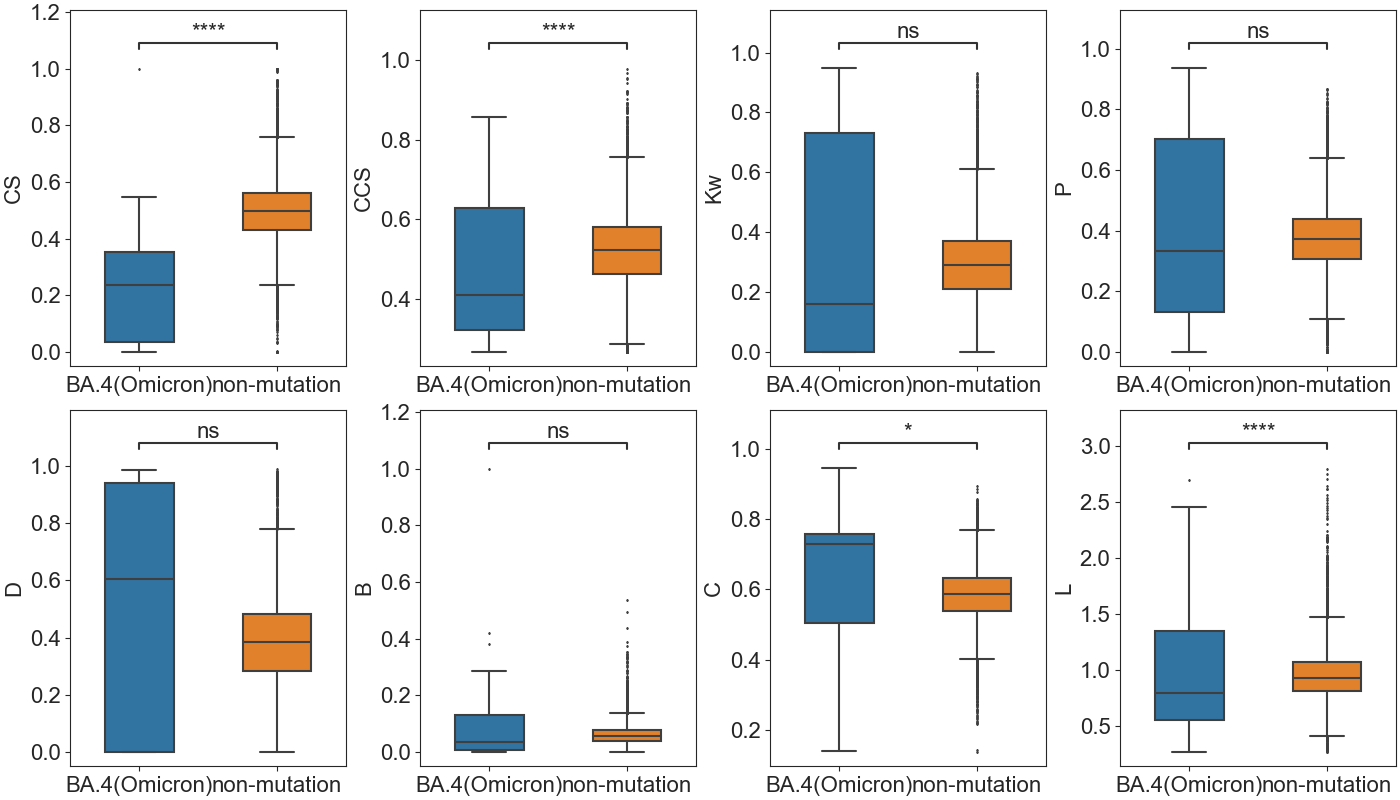
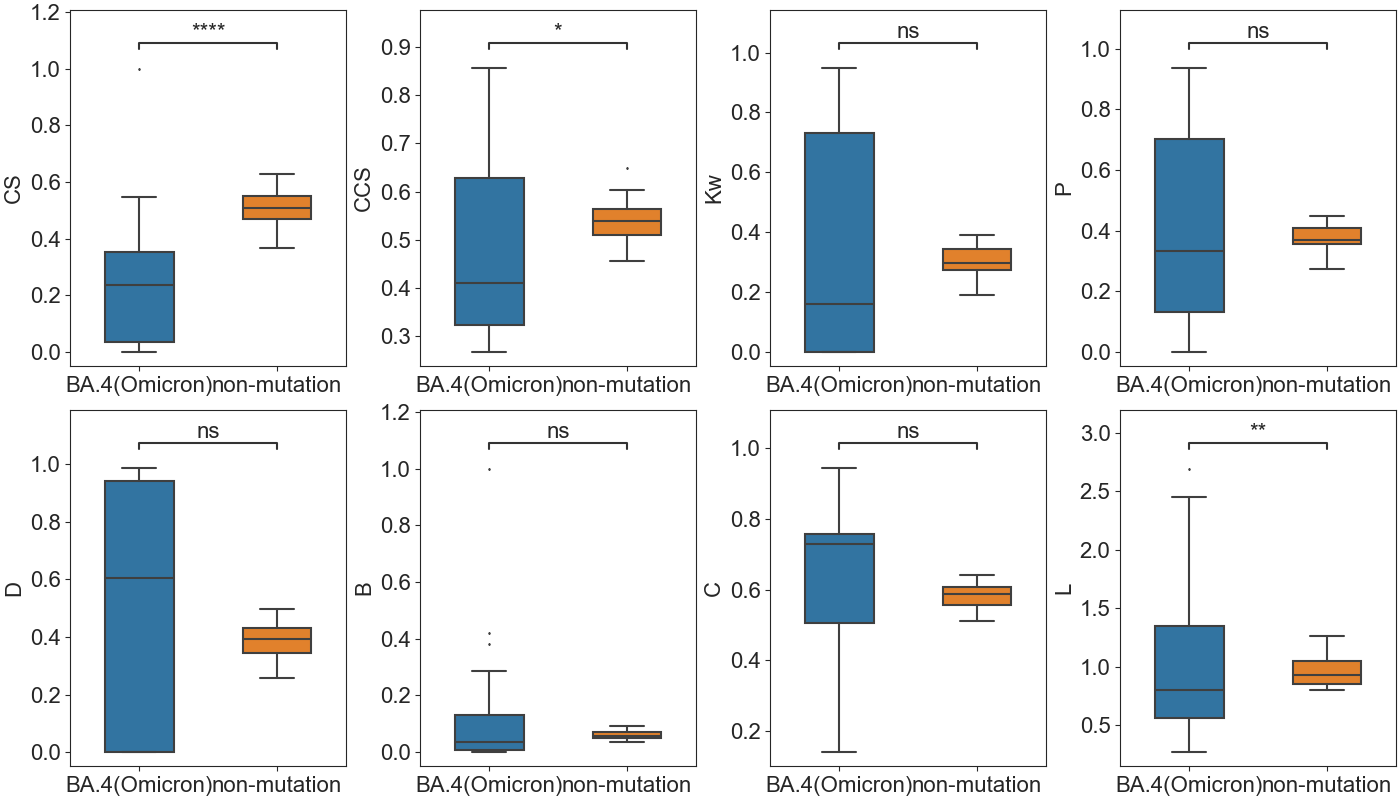
Add boxplot for specific variant and total variant samples. (only use the sample data with size 30)

diff --git a/v2/output_procon_analysis.py b/v2/output_procon_analysis.py
@@ -817,14 +817,13 @@ class ProConNetwork:
         for index, (name, func) in enumerate(funcs.items()):
             # score
             variant_scores = func(variant)
-            grp_sample_scores = {}
-            for count, sample_group in group_count_sample.items():
-                _sample_scores = [func(group) for group in sample_group]
-                sample_mean_score = [np.mean(group) for group in _sample_scores]
-                sample_mean_score = sorted(sample_mean_score)  # 排序
-                grp_sample_scores[count] = sample_mean_score
-            sample_scores = np.array(list(grp_sample_scores.values())).reshape(-1).tolist()
-            sample_scores = pd.Series(sample_scores).dropna().tolist()
+
+            log.info("length is %s", len(variant_scores))
+            grp_sample = group_count_sample[len(variant)]
+            _sample_scores = [func(group) for group in grp_sample]
+            sample_mean_score = [np.mean(group) for group in _sample_scores]
+            sample_mean_score = sorted(sample_mean_score)  # 排序
+            sample_scores = pd.Series(sample_mean_score).dropna().tolist()
 
             # draw
             variant_name = target_variant
@@ -840,6 +839,7 @@ class ProConNetwork:
             y = "score"
             order = [variant_name, no_variant_name]
             sns.boxplot(data=_plot_data, x=x, y=y, ax=ax, order=order, fliersize=1, width=.5)
+            log.debug("variant score: %s", sorted(variant_scores))
             # tag p value
             self.boxplot_add_p_value(_plot_data, ax, x, y, order, "Mann-Whitney")
             mwu_2 = mannwhitneyu(variant_scores, sample_scores, alternative="two-sided")
